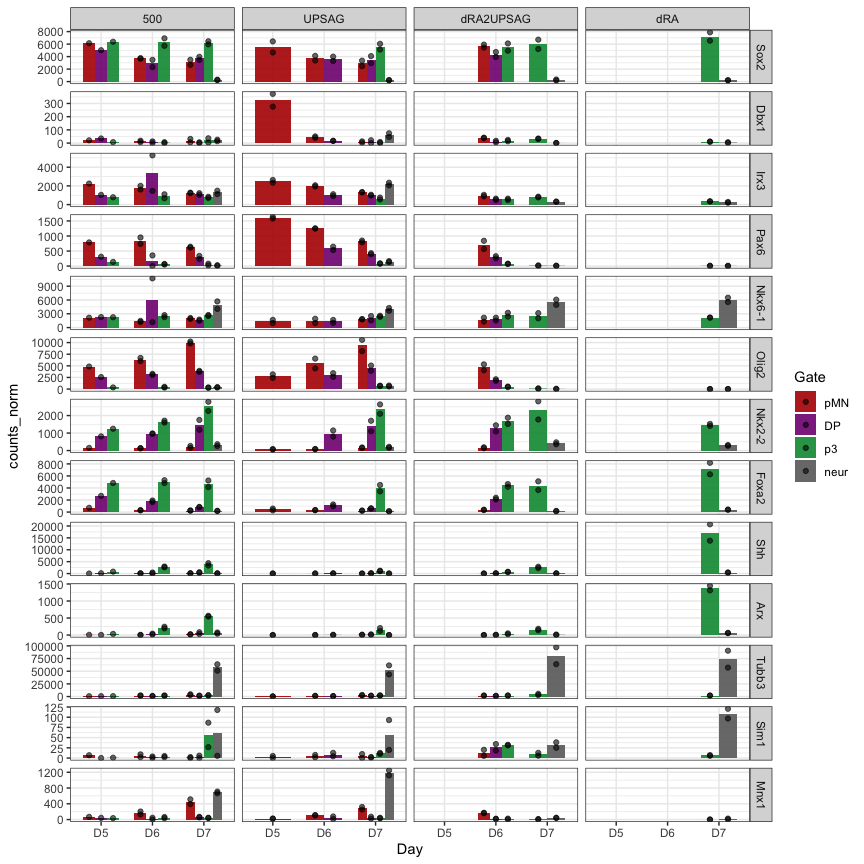
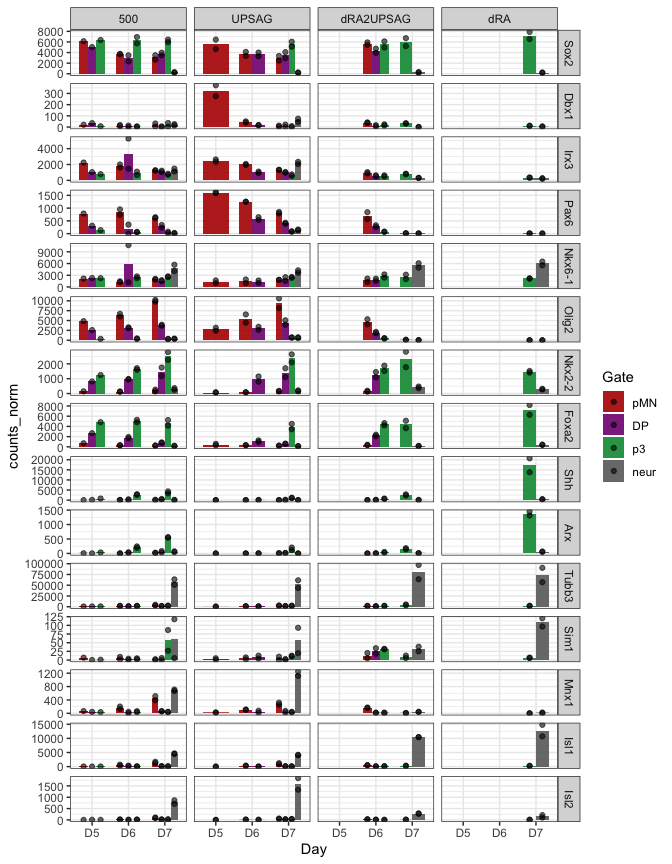
Updated summary report

Changed region(s): [[0.0, 0.0, 0.9688, 1.0], [0.7188, 0.0, 0.7812, 0.0312], [0.3438, 0.0, 0.4062, 0.0312]]

diff --git a/DPpilotRNA_1_summary_share.md b/DPpilotRNA_1_summary_share.md
@@ -126,7 +126,9 @@ Heatmap(cor_vsd, name="Correlation", col=hm_colors,
   transitioning from p0.
 
 ``` r
-geneOI <- c("Sox2","Dbx1","Irx3","Pax6","Nkx6-1","Olig2","Nkx2-2","Foxa2","Shh","Arx","Tubb3","Sim1","Mnx1")
+geneOI <- c("Sox2","Dbx1","Irx3","Pax6","Nkx6-1","Olig2","Nkx2-2","Foxa2",
+            "Shh","Arx",
+            "Tubb3","Sim1","Mnx1","Isl1","Isl2")
 
 
 ggplot(dds_counts_plot %>% filter(geneid %in% geneOI) %>% mutate(geneid=factor(geneid, levels=geneOI)), 
